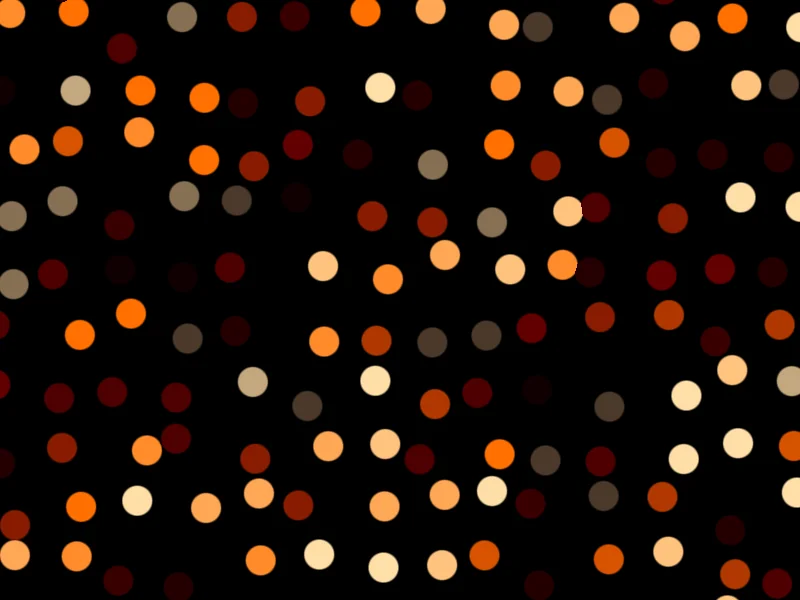
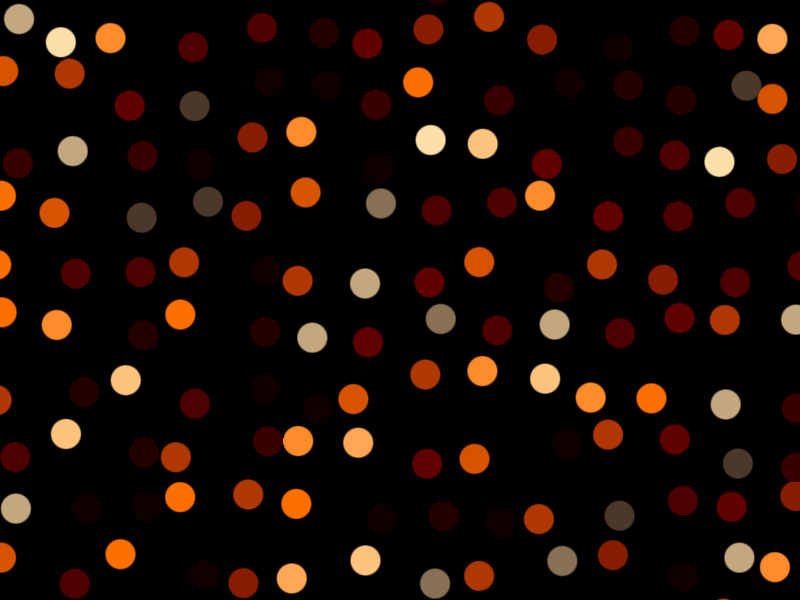
back to old versions of shaders + regenerated previews
# Conflicts:
#	docs/public/shaders/dot-orbit.webp
#	docs/public/shaders/god-rays.webp
#	packages/shaders-react/src/shaders/dot-orbit.tsx

diff --git a/packages/shaders/src/shaders/god-rays.ts b/packages/shaders/src/shaders/god-rays.ts
@@ -1,7 +1,7 @@
 import type { vec4 } from '../types.js';
 import type { ShaderMotionParams } from '../shader-mount.js';
 import { sizingVariablesDeclaration, type ShaderSizingParams, type ShaderSizingUniforms } from '../shader-sizing.js';
-import { declarePI, declareRandom, declareRotate, declareValueNoise, colorBandingFix } from '../shader-utils.js';
+import { declarePI, declareRotate, declareValueNoise, colorBandingFix } from '../shader-utils.js';
 
 export const godRaysMeta = {
   maxColorCount: 5,
@@ -19,6 +19,7 @@ export const godRaysMeta = {
  * - u_midSize, u_midIntensity: central shape over the rays
  * - u_bloom (0..1): normal to additive blending mix
  *
+ * - u_noiseTexture (sampler2D): pre-computed randomizer source
  */
 
 // language=GLSL
@@ -26,6 +27,8 @@ export const godRaysFragmentShader: string = `#version 300 es
 precision mediump float;
 
 uniform float u_time;
+
+uniform sampler2D u_noiseTexture;
 
 uniform vec4 u_colorBack;
 uniform vec4 u_colorBloom;
@@ -44,12 +47,20 @@ ${sizingVariablesDeclaration}
 out vec4 fragColor;
 
 ${declarePI}
-${declareRandom}
+
+float random(vec2 p) {
+  vec2 uv = floor(p) / 100. + .5;
+  return texture(u_noiseTexture, uv).r;
+}
+
 ${declareRotate}
 ${declareValueNoise}
 
 float hash(float n) {
-  return fract(sin(n * 43758.5453123) * 43758.5453123);
+  n = fract(n * 0.1031);
+  n *= n + 33.33;
+  n *= n + n;
+  return fract(n);
 }
 
 float raysShape(vec2 uv, float r, float freq, float intensity, float radius) {
@@ -68,7 +79,7 @@ void main() {
   float t = .2 * u_time;
 
   float radius = length(shape_uv);
-  float spots = 5. * abs(u_spotty);
+  float spots = 6.5 * abs(u_spotty);
 
   float intensity = 4. - 3. * clamp(u_intensity, 0., 1.);
 
@@ -139,6 +150,7 @@ export interface GodRaysUniforms extends ShaderSizingUniforms {
   u_density: number;
   u_intensity: number;
   u_bloom: number;
+  u_noiseTexture?: HTMLImageElement;
 }
 
 export interface GodRaysParams extends ShaderSizingParams, ShaderMotionParams {

diff --git a/packages/shaders/src/shaders/metaballs.ts b/packages/shaders/src/shaders/metaballs.ts
@@ -1,7 +1,7 @@
 import type { vec4 } from '../types.js';
 import type { ShaderMotionParams } from '../shader-mount.js';
 import { sizingVariablesDeclaration, type ShaderSizingParams, type ShaderSizingUniforms } from '../shader-sizing.js';
-import { declarePI, colorBandingFix } from '../shader-utils.js';
+import {declarePI, declareValueNoise, colorBandingFix} from '../shader-utils.js';
 
 export const metaballsMeta = {
   maxColorCount: 8,
@@ -18,6 +18,8 @@ export const metaballsMeta = {
  * - u_sizeRange (0..1): randomizes the size of balls between 0 and u_size
  * - u_count: number of balls on the canvas
  *
+ * - u_noiseTexture (sampler2D): pre-computed randomizer source
+ *
  */
 
 // language=GLSL
@@ -25,6 +27,8 @@ export const metaballsFragmentShader: string = `#version 300 es
 precision mediump float;
 
 uniform float u_time;
+
+uniform sampler2D u_noiseTexture;
 
 uniform vec4 u_colorBack;
 uniform vec4 u_colors[${metaballsMeta.maxColorCount}];
@@ -38,15 +42,17 @@ ${sizingVariablesDeclaration}
 out vec4 fragColor;
 
 ${declarePI}
-
-float hash(float x) {
-  return fract(sin(x) * 43758.5453123);
+float random(vec2 p) {
+  vec2 uv = floor(p) / 100. + .5;
+  return texture(u_noiseTexture, uv).r;
 }
 float noise(float x) {
   float i = floor(x);
   float f = fract(x);
   float u = f * f * (3.0 - 2.0 * f);
-  return mix(hash(i), hash(i + 1.0), u);
+  vec2 p0 = vec2(i, 0.0);
+  vec2 p1 = vec2(i + 1.0, 0.0);
+  return mix(random(p0), random(p1), u);
 }
 
 float getBallShape(vec2 uv, vec2 c, float p) {
@@ -61,7 +67,7 @@ void main() {
 
   shape_uv += .5;
 
-  float t = .2 * u_time + 1.;
+  float t = .2 * u_time + 500.;
 
   vec3 totalColor = vec3(0.);
   float totalShape = 0.;
@@ -122,6 +128,7 @@ export interface MetaballsUniforms extends ShaderSizingUniforms {
   u_colorsCount: number;
   u_count: number;
   u_size: number;
+  u_noiseTexture?: HTMLImageElement;
 }
 
 export interface MetaballsParams extends ShaderSizingParams, ShaderMotionParams {

diff --git a/packages/shaders/src/shaders/dot-orbit.ts b/packages/shaders/src/shaders/dot-orbit.ts
@@ -1,7 +1,7 @@
 import type { vec4 } from '../types.js';
 import type { ShaderMotionParams } from '../shader-mount.js';
 import { sizingVariablesDeclaration, type ShaderSizingParams, type ShaderSizingUniforms } from '../shader-sizing.js';
-import { declarePI, declareRandom, declareRotate } from '../shader-utils.js';
+import { declarePI, declareRotate } from '../shader-utils.js';
 
 export const dotOrbitMeta = {
   maxColorCount: 10,
@@ -18,6 +18,8 @@ export const dotOrbitMeta = {
  * - u_sizeRange (0..1): randomizes dot radius between 0 and u_size
  * - u_spreading (0..1): max orbit distance of each dot around the cell center
  *
+ * - u_noiseTexture (sampler2D): pre-computed randomizer source
+ *
  */
 
 // language=GLSL
@@ -25,6 +27,8 @@ export const dotOrbitFragmentShader: string = `#version 300 es
 precision mediump float;
 
 uniform float u_time;
+
+uniform sampler2D u_noiseTexture;
 
 uniform vec4 u_colorBack;
 uniform vec4 u_colors[${dotOrbitMeta.maxColorCount}];
@@ -39,11 +43,15 @@ ${sizingVariablesDeclaration}
 out vec4 fragColor;
 
 ${declarePI}
-${declareRandom}
 ${declareRotate}
 
+float random(vec2 p) {
+  vec2 uv = floor(p) / 100. + .5;
+  return texture(u_noiseTexture, uv).r;
+}
 vec2 random2(vec2 p) {
-  return vec2(random(p), random(200. * p));
+  vec2 uv = floor(p) / 100. + .5;
+  return texture(u_noiseTexture, uv).gb;
 }
 
 vec3 voronoiShape(vec2 uv, float time) {
@@ -80,7 +88,7 @@ void main() {
   vec2 shape_uv = v_patternUV;
   shape_uv *= 1.5;
 
-  float t = u_time;
+  float t = u_time - 10.;
 
   vec3 voronoi = voronoiShape(shape_uv, t) + 1e-4;
 
@@ -138,6 +146,7 @@ export interface DotOrbitUniforms extends ShaderSizingUniforms {
   u_sizeRange: number;
   u_spreading: number;
   u_stepsPerColor: number;
+  u_noiseTexture?: HTMLImageElement;
 }
 
 export interface DotOrbitParams extends ShaderSizingParams, ShaderMotionParams {

diff --git a/packages/shaders/src/shaders/warp.ts b/packages/shaders/src/shaders/warp.ts
@@ -1,7 +1,7 @@
 import type { vec4 } from '../types.js';
 import type { ShaderMotionParams } from '../shader-mount.js';
 import { sizingVariablesDeclaration, type ShaderSizingParams, type ShaderSizingUniforms } from '../shader-sizing.js';
-import { declarePI, declareRandom, declareValueNoise, declareRotate, colorBandingFix } from '../shader-utils.js';
+import { declarePI, declareValueNoise, declareRotate, colorBandingFix } from '../shader-utils.js';
 
 export const warpMeta = {
   maxColorCount: 10,
@@ -22,6 +22,8 @@ export const warpMeta = {
  * - u_distortion: value noise distortion over the UV coordinate
  * - u_swirl, u_swirlIterations: swirly distortion (layering curves effect)
  *
+ * - u_noiseTexture (sampler2D): pre-computed randomizer source
+ *
  */
 
 // language=GLSL
@@ -30,6 +32,8 @@ precision mediump float;
 
 uniform float u_time;
 uniform float u_scale;
+
+uniform sampler2D u_noiseTexture;
 
 uniform vec4 u_colors[${warpMeta.maxColorCount}];
 uniform float u_colorsCount;
@@ -46,7 +50,11 @@ ${sizingVariablesDeclaration}
 out vec4 fragColor;
 
 ${declarePI}
-${declareRandom}
+
+float random(vec2 p) {
+  vec2 uv = floor(p) / 100. + .5;
+  return texture(u_noiseTexture, uv).g;
+}
 ${declareRotate}
 ${declareValueNoise}
 
@@ -128,6 +136,7 @@ export interface WarpUniforms extends ShaderSizingUniforms {
   u_distortion: number;
   u_swirl: number;
   u_swirlIterations: number;
+  u_noiseTexture?: HTMLImageElement;
 }
 
 export interface WarpParams extends ShaderSizingParams, ShaderMotionParams {

diff --git a/packages/shaders-react/src/shaders/dot-orbit.tsx b/packages/shaders-react/src/shaders/dot-orbit.tsx
@@ -3,6 +3,7 @@ import { ShaderMount, type ShaderComponentProps } from '../shader-mount.js';
 import { colorPropsAreEqual } from '../color-props-are-equal.js';
 import {
   getShaderColorFromString,
+  getShaderNoiseTexture,
   dotOrbitFragmentShader,
   ShaderFitOptions,
   type DotOrbitParams,
@@ -112,6 +113,7 @@ export const DotOrbit: React.FC<DotOrbitProps> = memo(function DotOrbitImpl({
     u_sizeRange: sizeRange,
     u_spreading: spreading,
     u_stepsPerColor: stepsPerColor,
+    u_noiseTexture: getShaderNoiseTexture(),
 
     // Sizing uniforms
     u_fit: ShaderFitOptions[fit],

diff --git a/packages/shaders-react/src/shaders/god-rays.tsx b/packages/shaders-react/src/shaders/god-rays.tsx
@@ -3,6 +3,7 @@ import { ShaderMount, type ShaderComponentProps } from '../shader-mount.js';
 import { colorPropsAreEqual } from '../color-props-are-equal.js';
 import {
   defaultObjectSizing,
+  getShaderNoiseTexture,
   getShaderColorFromString,
   godRaysFragmentShader,
   ShaderFitOptions,
@@ -132,6 +133,7 @@ export const GodRays: React.FC<GodRaysProps> = memo(function GodRaysImpl({
     u_midSize: midSize,
     u_intensity: intensity,
     u_bloom: bloom,
+    u_noiseTexture: getShaderNoiseTexture(),
 
     // Sizing uniforms
     u_fit: ShaderFitOptions[fit],

diff --git a/packages/shaders-react/src/shaders/metaballs.tsx b/packages/shaders-react/src/shaders/metaballs.tsx
@@ -4,6 +4,7 @@ import { colorPropsAreEqual } from '../color-props-are-equal.js';
 import {
   defaultObjectSizing,
   getShaderColorFromString,
+  getShaderNoiseTexture,
   metaballsFragmentShader,
   ShaderFitOptions,
   type MetaballsParams,
@@ -103,6 +104,7 @@ export const Metaballs: React.FC<MetaballsProps> = memo(function MetaballsImpl({
     u_colorsCount: colors.length,
     u_size: size,
     u_count: count,
+    u_noiseTexture: getShaderNoiseTexture(),
 
     // Sizing uniforms
     u_fit: ShaderFitOptions[fit],

diff --git a/packages/shaders-react/src/shaders/warp.tsx b/packages/shaders-react/src/shaders/warp.tsx
@@ -4,6 +4,7 @@ import { colorPropsAreEqual } from '../color-props-are-equal.js';
 import {
   defaultPatternSizing,
   getShaderColorFromString,
+  getShaderNoiseTexture,
   warpFragmentShader,
   ShaderFitOptions,
   type WarpParams,
@@ -176,6 +177,7 @@ export const Warp: React.FC<WarpProps> = memo(function WarpImpl({
     u_swirlIterations: swirlIterations,
     u_shapeScale: shapeScale,
     u_shape: WarpPatterns[shape],
+    u_noiseTexture: getShaderNoiseTexture(),
 
     // Sizing uniforms
     u_scale: scale,
